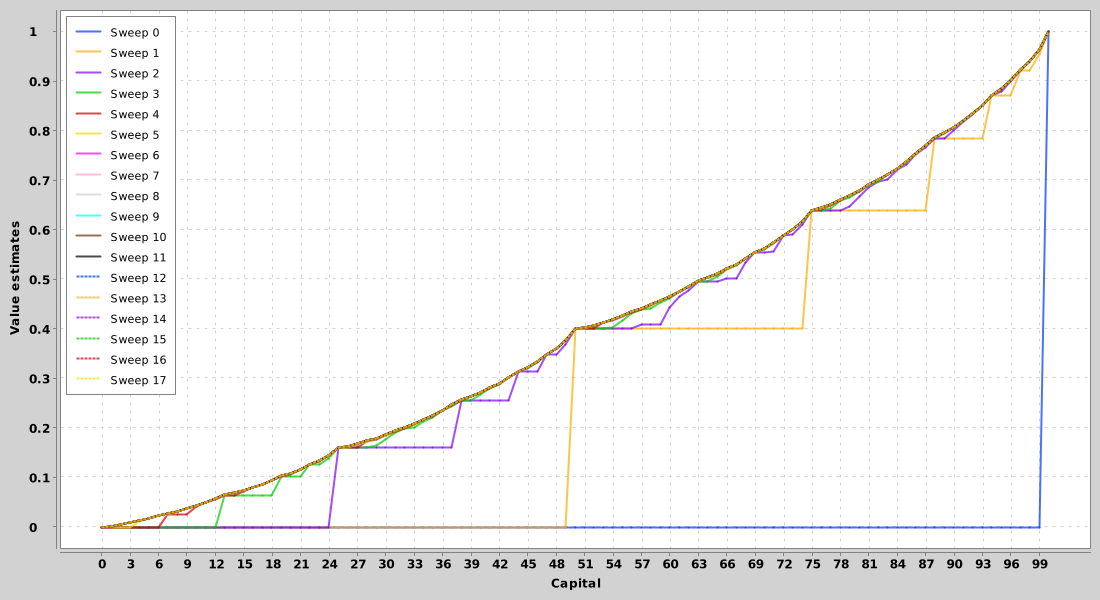
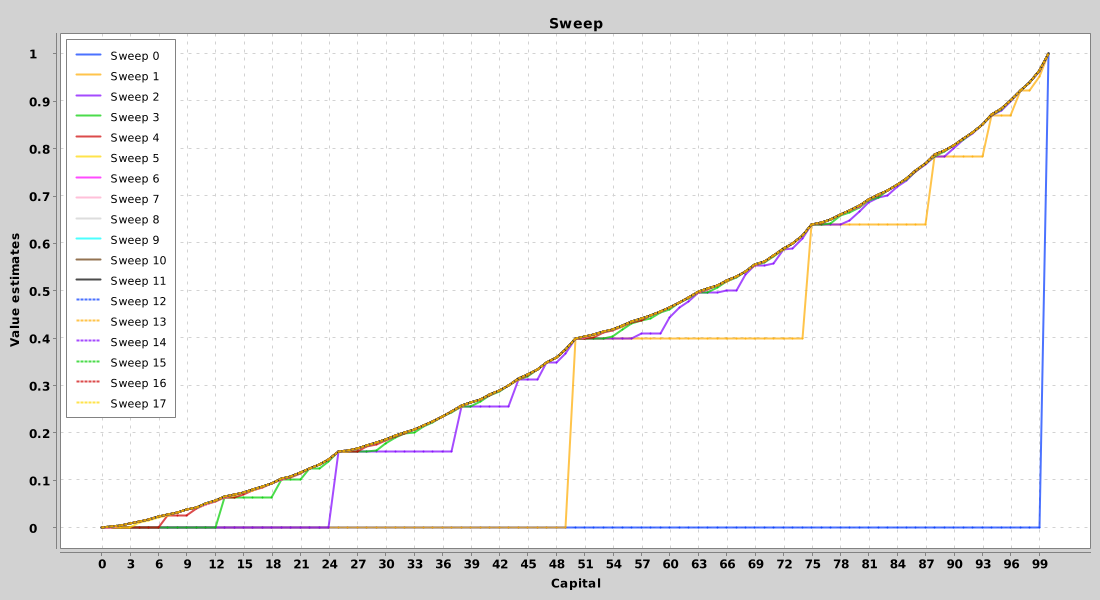
Modified imagew

diff --git a/src/main/java/sutton/barto/rlbook/chapter04/GamblersProblem.java b/src/main/java/sutton/barto/rlbook/chapter04/GamblersProblem.java
@@ -65,7 +65,7 @@ public class GamblersProblem {
                       actionReturns.size()).stream().mapToDouble(d -> Utils.round(d, 5))
                   .toArray()) + 1]);
     });
-    XYChart policyChart = createChart(1100, 400, "Capital", "Final policy (stake)",
+    XYChart policyChart = createChart(1100, 400, "Policy", "Capital", "Final policy (stake)",
         XYSeries.XYSeriesRenderStyle.Step);
     policyChart.getStyler().setLegendPosition(Styler.LegendPosition.InsideNE);
     policyChart.addSeries("Policy with head probability = " + fHeadProb, states, policy);
@@ -73,7 +73,7 @@ public class GamblersProblem {
     charts.add(policyChart);
     BitmapEncoder.saveBitmap(policyChart, "./images/chapter04-gamblers-problem-policy.png",
         BitmapEncoder.BitmapFormat.PNG);
-    XYChart sweepChart = createChart(1100, 600, "Capital", "Value estimates",
+    XYChart sweepChart = createChart(1100, 600, "Sweep", "Capital", "Value estimates",
         XYSeries.XYSeriesRenderStyle.Line);
     sweepChart.getStyler().setLegendPosition(Styler.LegendPosition.InsideNW);
     IntStream.range(0, sweepHistory.size())
@@ -84,14 +84,14 @@ public class GamblersProblem {
     new SwingWrapper<>(charts, 2, 1).displayChartMatrix();
   }
 
-  private XYChart createChart(int width, int height, String xTitle, String yTitle,
+  private XYChart createChart(int width, int height, String title, String xTitle, String yTitle,
                               XYSeries.XYSeriesRenderStyle renderStyle) {
-    final var chart = new XYChartBuilder().width(width).height(height)
+    final var chart = new XYChartBuilder().title(title).width(width).height(height)
         .xAxisTitle(xTitle).yAxisTitle(yTitle).build();
     var styler = chart.getStyler();
     styler.setDefaultSeriesRenderStyle(renderStyle).setMarkerSize(0);
     styler.setLegendPosition(Styler.LegendPosition.OutsideE);
-    styler.setChartTitleVisible(false);
+    styler.setChartTitleVisible(true);
     return chart;
   }
 
